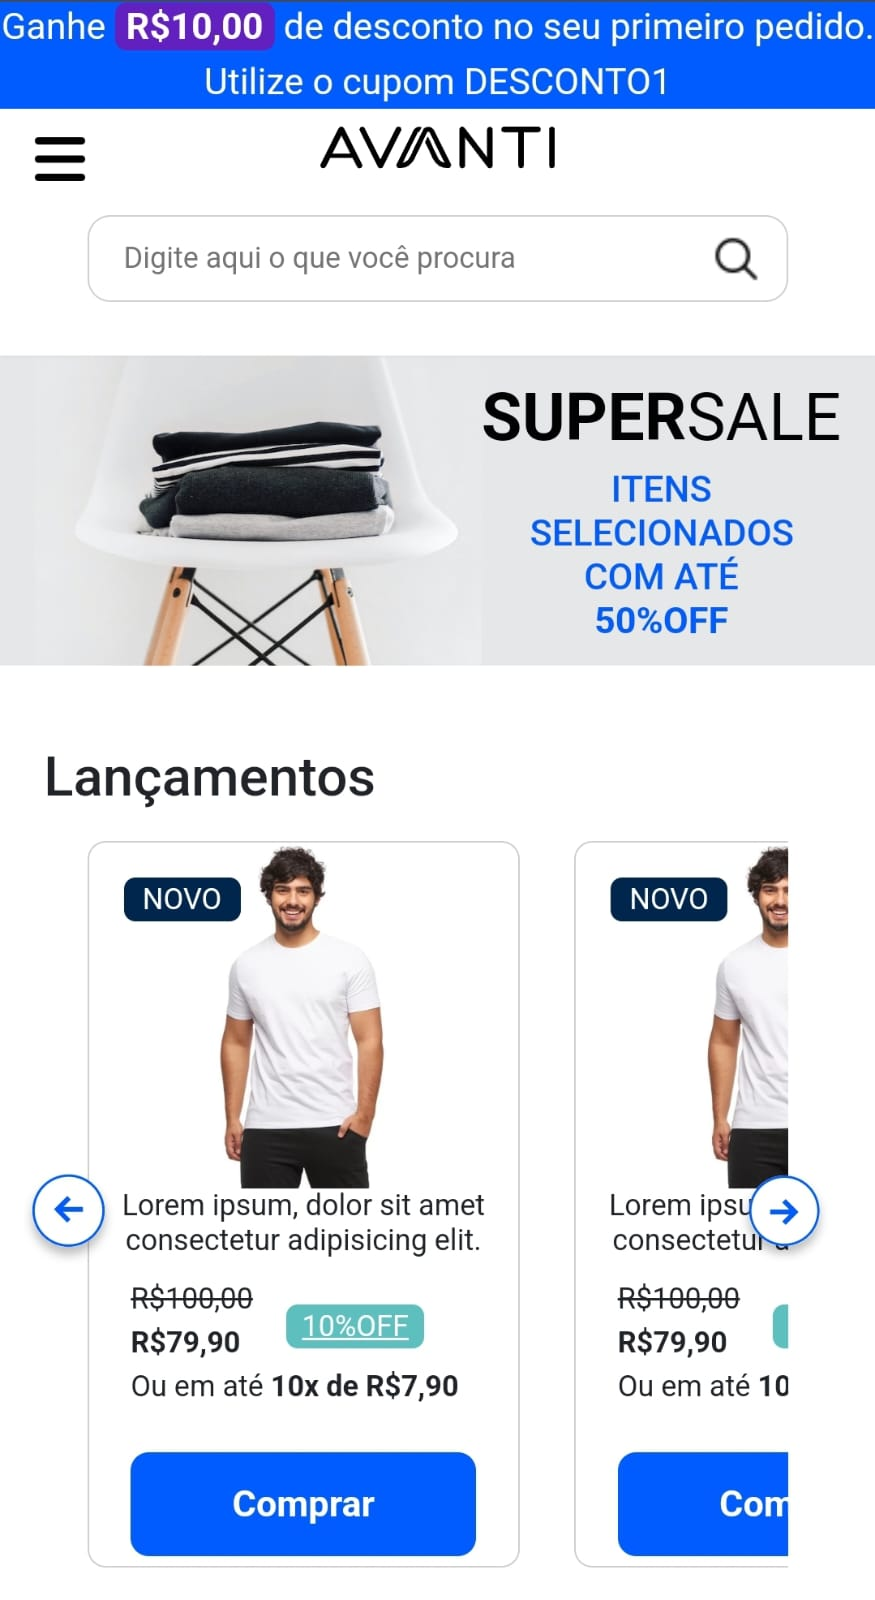
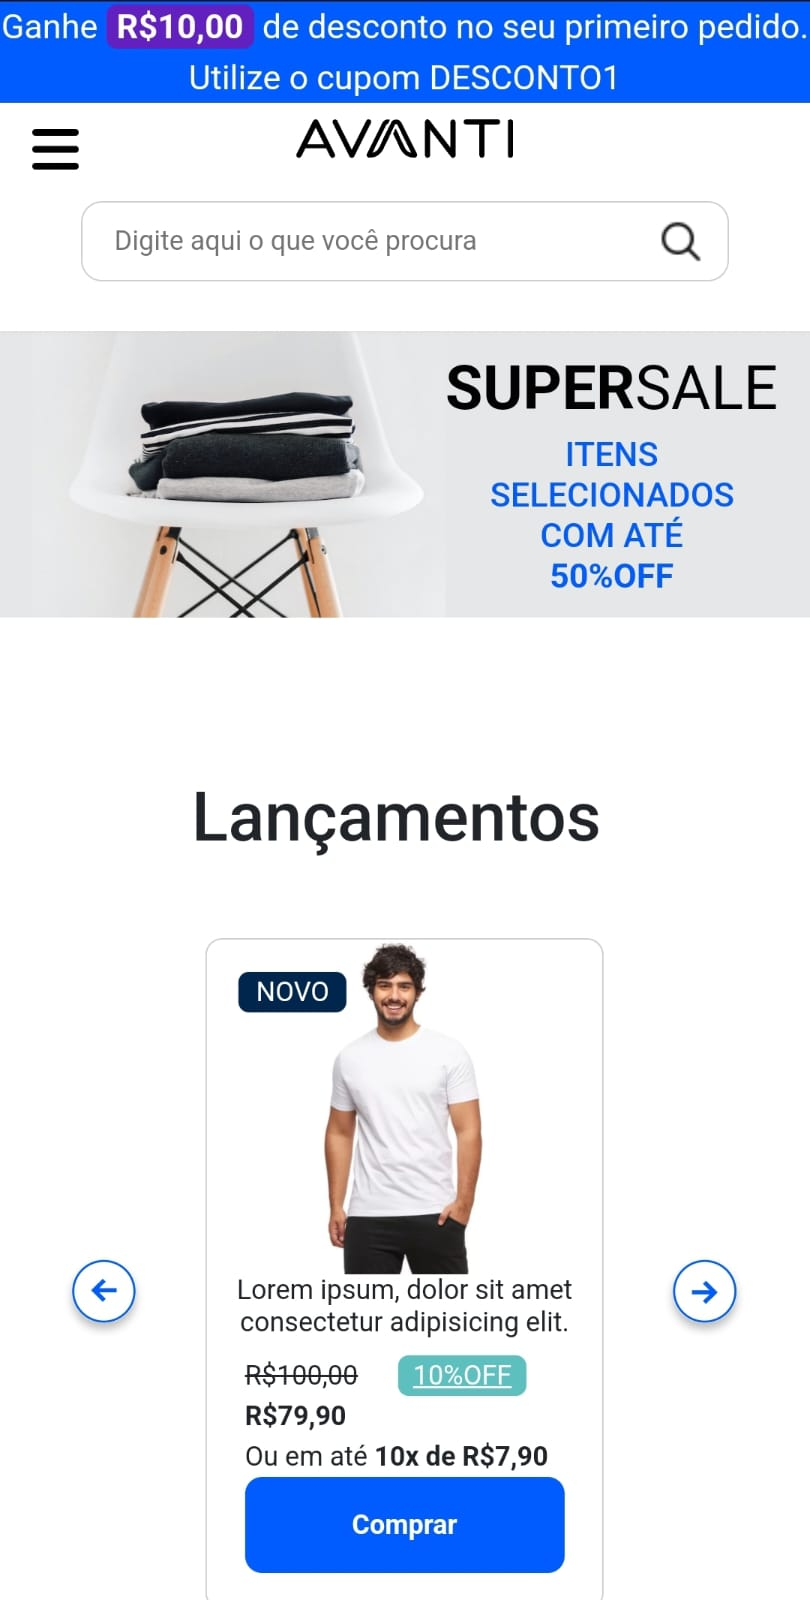
Atualização do readme com as fotos mobile e desktop da capa do site

Changed region(s): [[0.0309, 0.4688, 0.9568, 1.0], [0.0, 0.0, 1.0, 0.4375]]

diff --git a/README.md b/README.md
@@ -23,7 +23,7 @@ Loja de E-commerce de roupas e acessórios da Avanti
 
 ## Imagens da aplicação Web e Mobile
 
-<h3 align="center">Versão Web</h3>
+<h3 align="center">Versão Desktop</h3>
 <p align="center">
   <img src="./assets/capa_web.png" alt="Versão Web" width="90%">
 </p>
